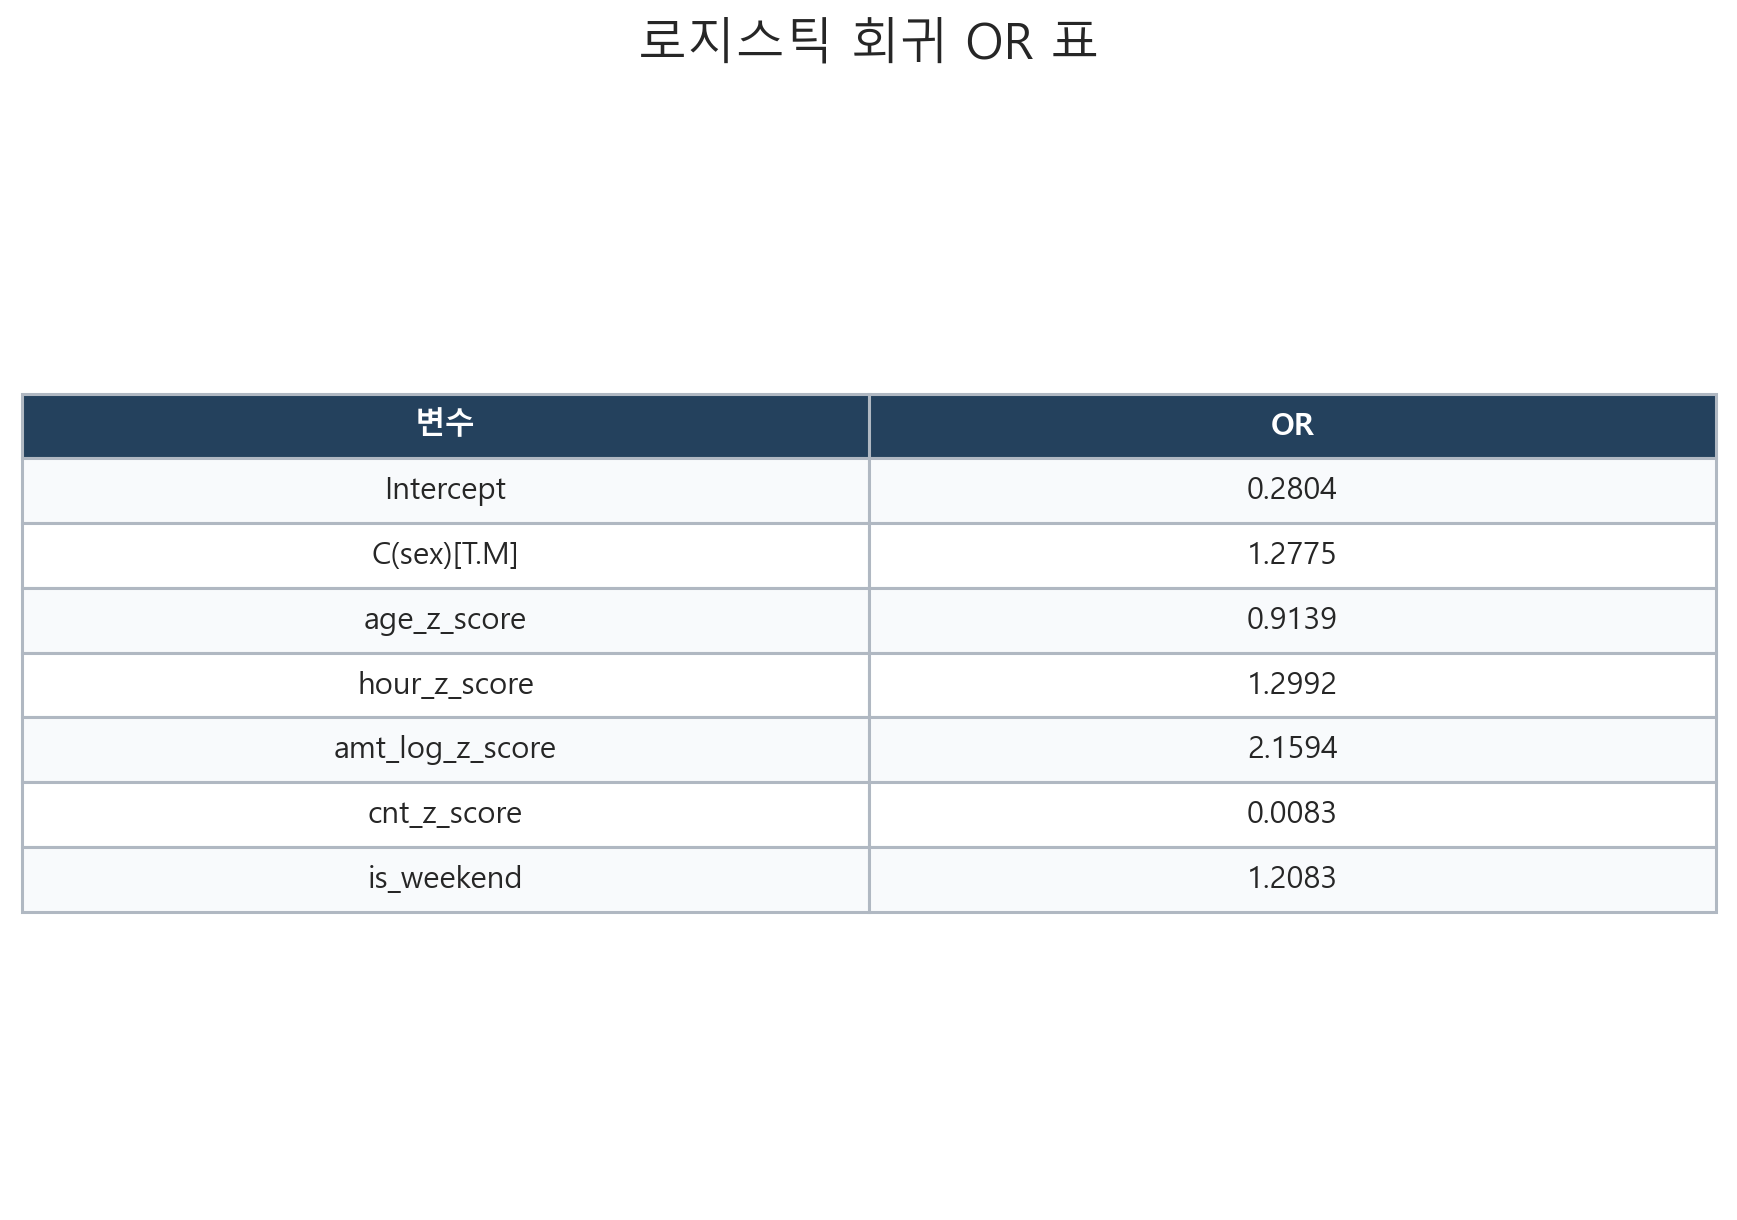
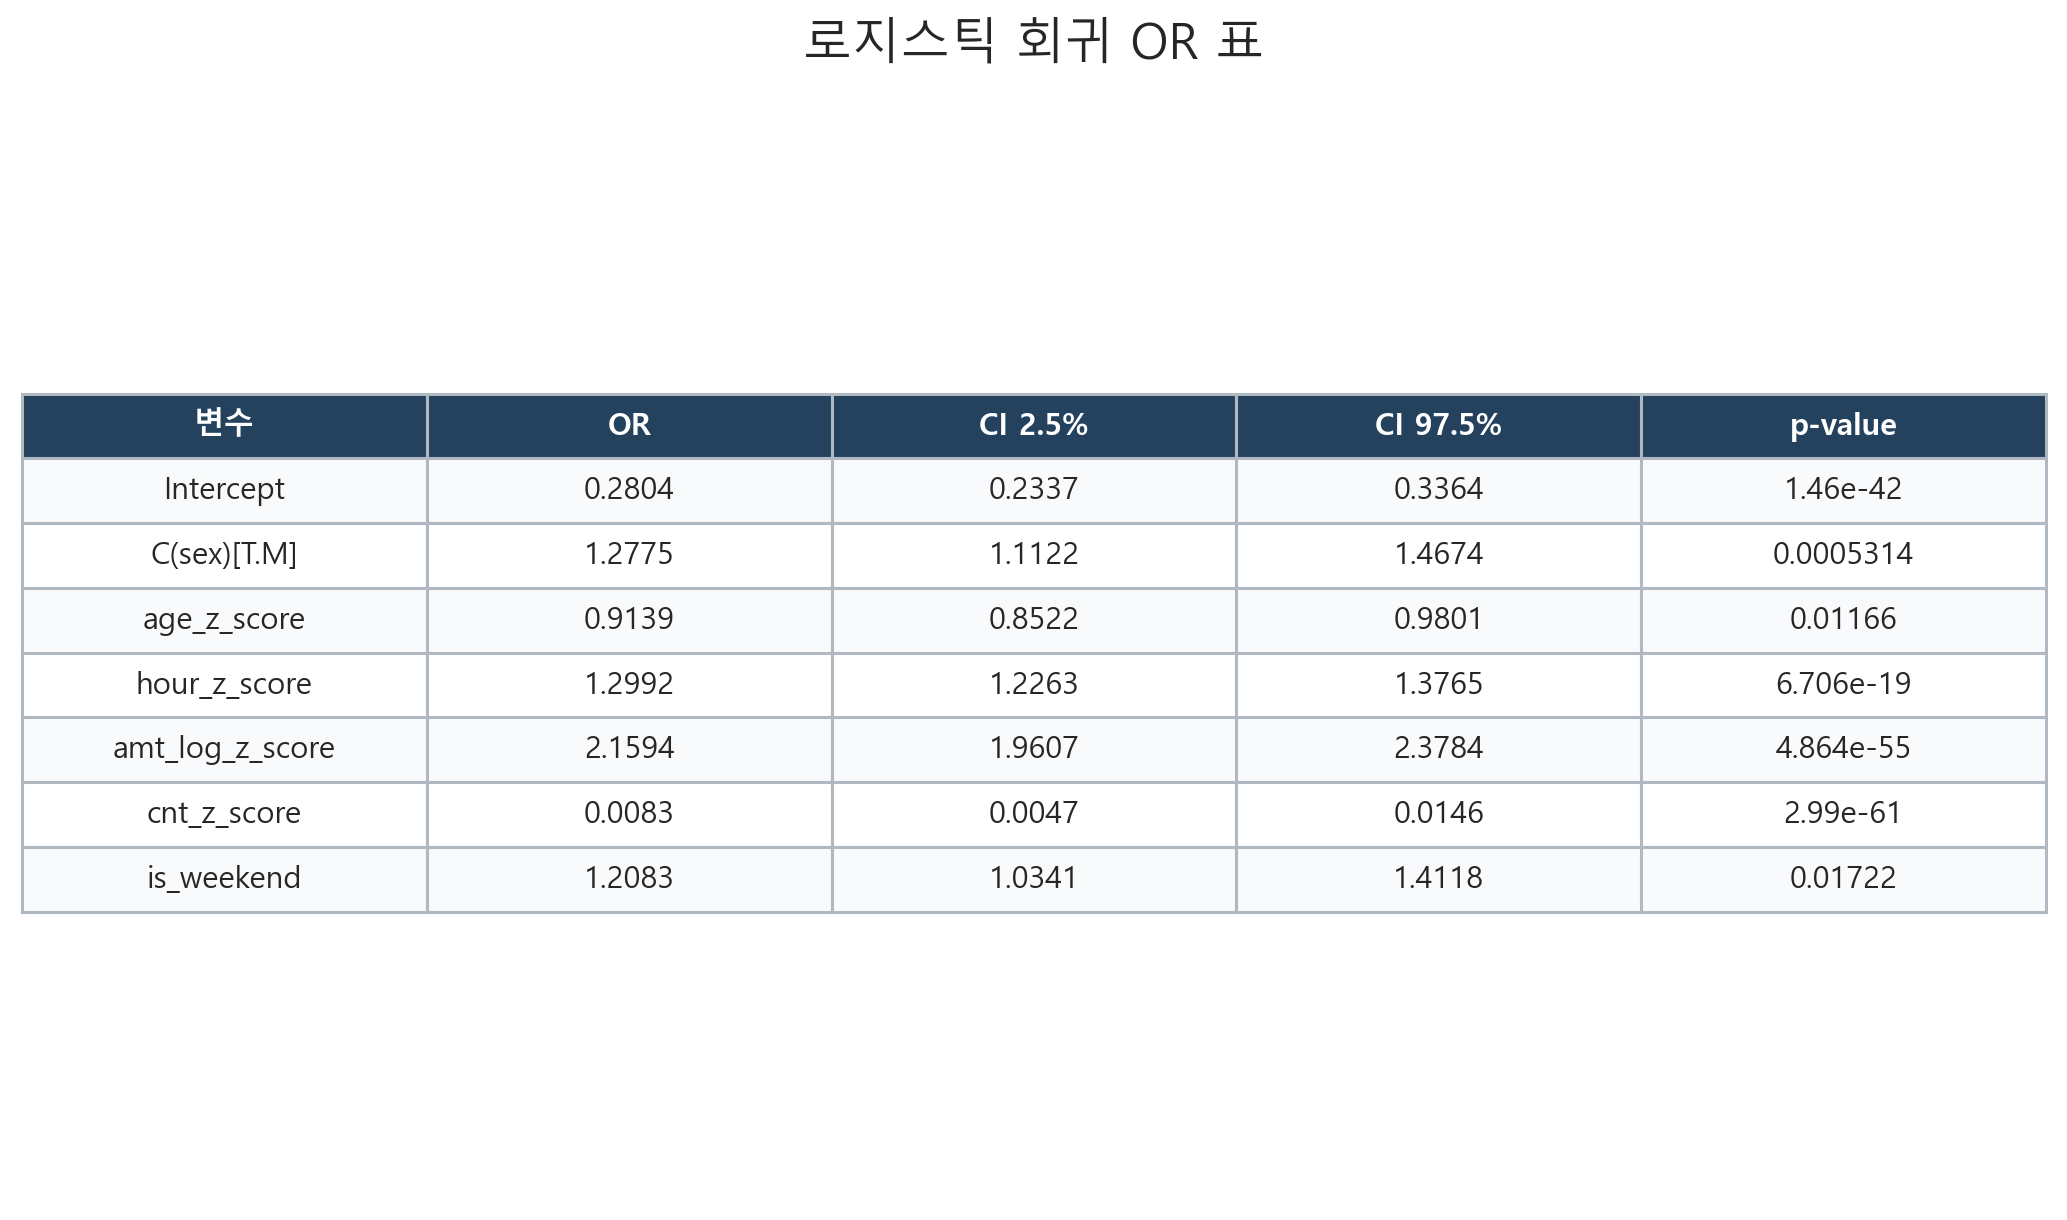
Fix: 로지스틱 회귀 OR 표 형식 수정

diff --git a/analysis/analysis.py b/analysis/analysis.py
@@ -200,7 +200,16 @@ def sample_for_logit(model_df: pd.DataFrame) -> pd.DataFrame:
 def run_logistic_regression(model_df: pd.DataFrame):
     formula = "is_risk_spending ~ C(sex) + age_z_score + hour_z_score + amt_log_z_score + cnt_z_score + is_weekend"
     result = smf.logit(formula=formula, data=model_df).fit(disp=False, maxiter=200)
-    odds_ratio = np.exp(result.params).rename("odds_ratio").reset_index().rename(columns={"index": "variable"})
+    conf_int = np.exp(result.conf_int())
+    odds_ratio = pd.DataFrame(
+        {
+            "variable": result.params.index,
+            "odds_ratio": np.exp(result.params).values,
+            "ci_lower": conf_int[0].values,
+            "ci_upper": conf_int[1].values,
+            "p_value": result.pvalues.values,
+        }
+    )
     return result, odds_ratio
 
 
@@ -440,7 +449,18 @@ def main() -> None:
         (OUTPUT_DIR / "logit_summary.txt").write_text(logit_summary_text, encoding="utf-8")
         odds_ratio_display = odds_ratio.copy()
         odds_ratio_display["odds_ratio"] = odds_ratio_display["odds_ratio"].map(lambda x: f"{x:.4f}")
-        odds_ratio_display = odds_ratio_display.rename(columns={"variable": "변수", "odds_ratio": "OR"})
+        odds_ratio_display["ci_lower"] = odds_ratio_display["ci_lower"].map(lambda x: f"{x:.4f}")
+        odds_ratio_display["ci_upper"] = odds_ratio_display["ci_upper"].map(lambda x: f"{x:.4f}")
+        odds_ratio_display["p_value"] = odds_ratio_display["p_value"].map(lambda x: f"{x:.4g}")
+        odds_ratio_display = odds_ratio_display.rename(
+            columns={
+                "variable": "변수",
+                "odds_ratio": "OR",
+                "ci_lower": "CI 2.5%",
+                "ci_upper": "CI 97.5%",
+                "p_value": "p-value",
+            }
+        )
         save_table_image(odds_ratio_display, "로지스틱 회귀 OR 표", OUTPUT_DIR / "logit_odds_ratio_table.png", font_size=10, col_width=1.5)
         save_text_image(logit_summary_text, "Logit Regression Results", OUTPUT_DIR / "logit_summary.png", font_size=9)
         print(f"로지스틱 회귀 표본 수: {len(logit_df):,}")
